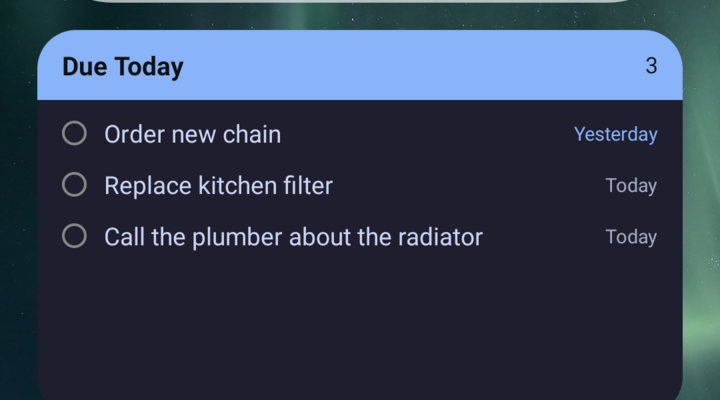
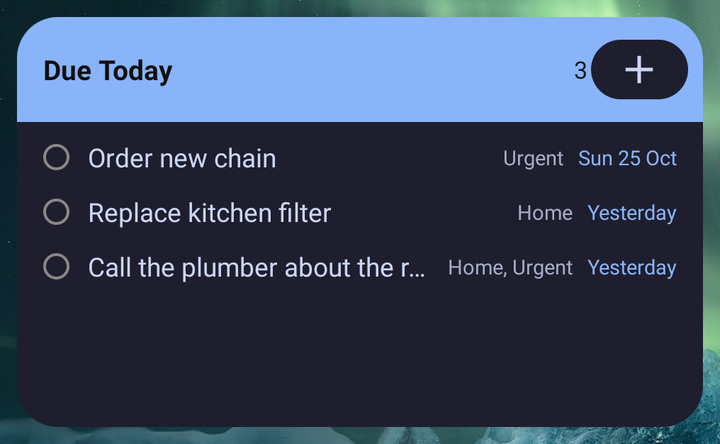
Refresh the widget screenshots for the header's plus button
Both are recaptured on the Nokia 7.2 at 2x, cropped to the widget, and the
caption now says what the plus does.

diff --git a/README.md b/README.md
@@ -59,7 +59,8 @@ create here, no analytics, and no Sloth service in the middle.
   <img src="docs/screenshots/widget-light.png" width="360" alt="Home screen widget, light scheme">
 </p>
 
-Those two are the same widget with a different scheme picked in the app.
+Those two are the same widget with a different scheme picked in the app. The
+plus in the header opens the add-a-task bar, wherever you were in the app.
 
 ## What you can do
 
